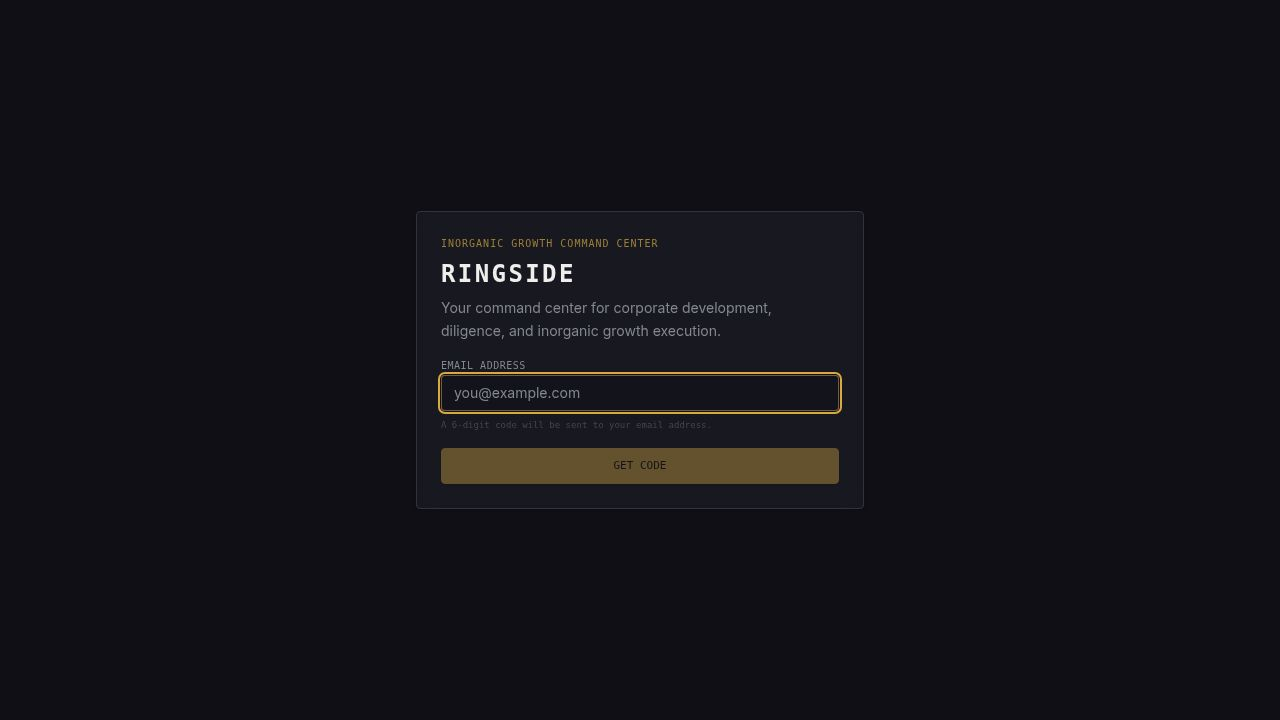
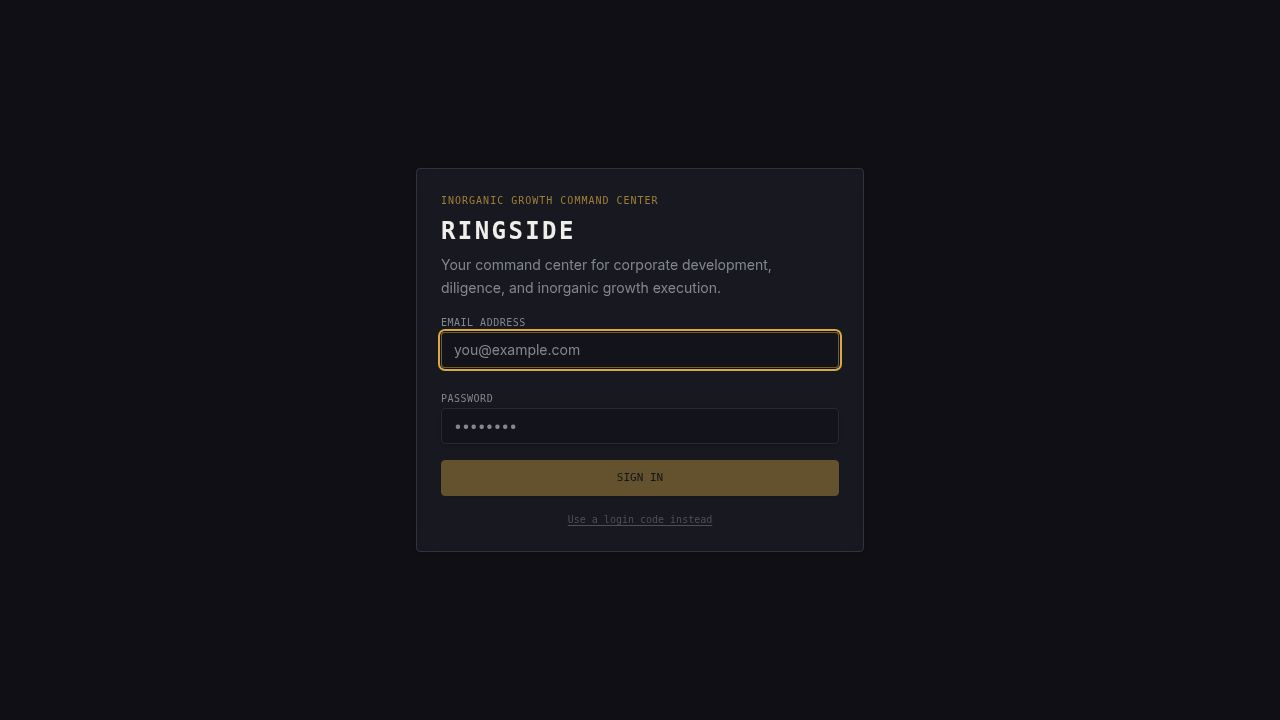
Add theme switching functionality to the application
Integrate next-themes for client-side theme management, defaulting to dark mode with a user-adjustable toggle available in the sidebar and mobile topbar. Update global CSS variables in index.css to support both light and dark themes, ensuring consistent UI appearance across the application.

Replit-Commit-Author: Agent
Replit-Commit-Session-Id: 6677bd51-f43c-4428-8bb9-deed49c7ef59
Replit-Commit-Checkpoint-Type: full_checkpoint
Replit-Commit-Event-Id: 4f2ffc80-0c1e-4011-b75c-3851e94c2411
Replit-Commit-Screenshot-Url: https://storage.googleapis.com/screenshot-production-us-central1/aacf2c8e-8c67-4b9d-930b-e67fe823cdb1/6677bd51-f43c-4428-8bb9-deed49c7ef59/vRrRfyv

Changed region(s): [[0.3438, 0.275, 0.6562, 0.7333]]

diff --git a/artifacts/growth-os/src/index.css b/artifacts/growth-os/src/index.css
@@ -67,6 +67,91 @@
 }
 
 :root {
+  --button-outline: rgba(0,0,0, .08);
+  --badge-outline: rgba(0,0,0, .06);
+  --opaque-button-border-intensity: 9;
+  --elevate-1: rgba(0,0,0, .035);
+  --elevate-2: rgba(0,0,0, .07);
+
+  /* ── Ringside light surface ramp ─────────────────────────── */
+  /* sidebar (98%) → background (99%) → card (100%) → secondary (94%) */
+
+  --background: 40 30% 98%;        /* warm ivory paper */
+  --foreground: 240 20% 12%;       /* near-black charcoal */
+  --border: 240 12% 86%;
+
+  /* Card — clean white, subtly elevated above page canvas */
+  --card: 0 0% 100%;
+  --card-foreground: 240 20% 12%;
+  --card-border: 240 12% 87%;
+
+  /* Sidebar — light ivory shell, one shade off the page canvas */
+  --sidebar: 40 24% 96%;
+  --sidebar-foreground: 240 18% 22%;
+  --sidebar-border: 240 12% 88%;
+  --sidebar-primary: 42 70% 40%;   /* deeper antique gold — legible on light */
+  --sidebar-primary-foreground: 40 30% 98%;
+  --sidebar-accent: 240 10% 91%;
+  --sidebar-accent-foreground: 240 20% 12%;
+  --sidebar-ring: 42 70% 40%;
+
+  --popover: 0 0% 100%;
+  --popover-foreground: 240 20% 12%;
+  --popover-border: 240 12% 87%;
+
+  /* ── Colour scale ────────────────────────────────────────── */
+  --primary: 42 70% 40%;           /* deeper antique gold — meets contrast on light */
+  --primary-foreground: 40 30% 98%;
+  --secondary: 240 10% 92%;
+  --secondary-foreground: 240 20% 15%;
+  --muted: 240 10% 94%;
+  --muted-foreground: 220 8% 40%;  /* muted stone / blue-gray, darker for contrast */
+  --accent: 240 10% 92%;
+  --accent-foreground: 240 20% 15%;
+
+  /* Controlled crimson — legible on light backgrounds */
+  --destructive: 0 70% 42%;
+  --destructive-foreground: 40 30% 98%;
+
+  --input: 240 12% 88%;
+  --ring: 42 70% 40%;
+
+  /* ── Charts ──────────────────────────────────────────────── */
+  --chart-1: 42 70% 40%;           /* deeper gold / primary */
+  --chart-2: 160 55% 32%;          /* emerald, darkened for light bg */
+  --chart-3: 32 85% 42%;           /* amber, darkened */
+  --chart-4: 185 60% 30%;          /* deep teal */
+  --chart-5: 0 70% 42%;            /* controlled crimson */
+
+  /* ── Typography ──────────────────────────────────────────── */
+  --app-font-sans: 'Inter', ui-sans-serif, system-ui, -apple-system, sans-serif;
+  --app-font-serif: Georgia, serif;
+  --app-font-mono: 'Space Mono', ui-monospace, SFMono-Regular, Menlo, Monaco, Consolas, "Liberation Mono", "Courier New", monospace;
+
+  /* ── Radius ───────────────────────────────────────────────── */
+  --radius: 0.5rem;
+
+  /* ── Soft shadows for light premium feel ─────────────────── */
+  --shadow-2xs: 0 1px 2px 0 rgba(16,24,40,.04);
+  --shadow-xs:  0 1px 3px 0 rgba(16,24,40,.06),  0 1px 2px -1px rgba(16,24,40,.05);
+  --shadow-sm:  0 2px 4px 0 rgba(16,24,40,.07),  0 1px 2px -1px rgba(16,24,40,.05);
+  --shadow:     0 4px 8px 0 rgba(16,24,40,.08),  0 2px 4px -1px rgba(16,24,40,.06);
+  --shadow-md:  0 6px 16px 0 rgba(16,24,40,.09), 0 3px 6px  -1px rgba(16,24,40,.06);
+  --shadow-lg:  0 12px 24px 0 rgba(16,24,40,.1), 0 6px 12px -2px rgba(16,24,40,.07);
+  --shadow-xl:  0 20px 40px 0 rgba(16,24,40,.12), 0 10px 20px -4px rgba(16,24,40,.08);
+  --shadow-2xl: 0 32px 64px 0 rgba(16,24,40,.14);
+
+  /* ── Token aliases ───────────────────────────────────────── */
+  --sidebar-primary-border: hsl(var(--sidebar-primary));
+  --sidebar-accent-border: hsl(var(--sidebar-accent));
+  --primary-border: hsl(var(--primary));
+  --secondary-border: hsl(var(--secondary));
+  --muted-border: hsl(var(--muted));
+  --accent-border: hsl(var(--accent));
+  --destructive-border: hsl(var(--destructive));
+}
+
+.dark {
   --button-outline: rgba(255,255,255, .10);
   --badge-outline: rgba(255,255,255, .08);
   --opaque-button-border-intensity: 9;
@@ -123,14 +208,6 @@
   --chart-4: 185 60% 38%;          /* deep teal */
   --chart-5: 0 68% 52%;            /* controlled crimson */
 
-  /* ── Typography ──────────────────────────────────────────── */
-  --app-font-sans: 'Inter', ui-sans-serif, system-ui, -apple-system, sans-serif;
-  --app-font-serif: Georgia, serif;
-  --app-font-mono: 'Space Mono', ui-monospace, SFMono-Regular, Menlo, Monaco, Consolas, "Liberation Mono", "Courier New", monospace;
-
-  /* ── Radius ───────────────────────────────────────────────── */
-  --radius: 0.5rem;
-
   /* ── Deeper shadows for dark premium feel ────────────────── */
   --shadow-2xs: 0 1px 2px 0 rgba(0,0,0,.45);
   --shadow-xs:  0 1px 3px 0 rgba(0,0,0,.5),  0 1px 2px -1px rgba(0,0,0,.4);
@@ -149,10 +226,6 @@
   --muted-border: hsl(var(--muted));
   --accent-border: hsl(var(--accent));
   --destructive-border: hsl(var(--destructive));
-}
-
-.dark {
-  /* Defaulting root to dark */
 }
 
 @layer base {

diff --git a/artifacts/growth-os/src/components/layout.tsx b/artifacts/growth-os/src/components/layout.tsx
@@ -1,10 +1,11 @@
-import React, { useState } from "react";
+import React, { useState, useEffect } from "react";
 import { Link, useLocation } from "wouter";
 import { useQuery } from "@tanstack/react-query";
+import { useTheme } from "next-themes";
 import {
   Target, ListTodo, Briefcase, Plus, BarChart3, Bot, CalendarCheck,
   ClipboardCheck, Upload, ChevronDown, PanelLeftClose, PanelLeftOpen, Menu,
-  FolderOpen, LineChart, ShieldCheck, Lightbulb, LogOut,
+  FolderOpen, LineChart, ShieldCheck, Lightbulb, LogOut, Sun, Moon,
 } from "lucide-react";
 import { Button } from "@/components/ui/button";
 import { Sheet, SheetContent, SheetTrigger } from "@/components/ui/sheet";
@@ -12,6 +13,67 @@ import { Tooltip, TooltipContent, TooltipTrigger } from "@/components/ui/tooltip
 import { NotificationBell } from "@/components/notification-bell";
 import { useAuth } from "@/contexts/auth-context";
 import { customFetch } from "@workspace/api-client-react";
+
+// ─── Theme toggle ────────────────────────────────────────────────────────────
+
+function ThemeToggle({ collapsed }: { collapsed: boolean }) {
+  const { theme, setTheme, resolvedTheme } = useTheme();
+  const [mounted, setMounted] = useState(false);
+  useEffect(() => setMounted(true), []);
+
+  const isDark = mounted ? (theme ?? resolvedTheme) === "dark" : true;
+  const toggle = () => setTheme(isDark ? "light" : "dark");
+
+  if (collapsed) {
+    return (
+      <Tooltip delayDuration={0}>
+        <TooltipTrigger asChild>
+          <button
+            onClick={toggle}
+            className="w-7 h-7 flex items-center justify-center rounded-md text-sidebar-foreground/40 hover:text-sidebar-foreground/80 hover:bg-white/6 transition-colors"
+            aria-label="Toggle theme"
+          >
+            {isDark ? <Moon size={12} /> : <Sun size={12} />}
+          </button>
+        </TooltipTrigger>
+        <TooltipContent side="right" sideOffset={8}>
+          <span className="font-mono text-[11px]">{isDark ? "Switch to light" : "Switch to dark"}</span>
+        </TooltipContent>
+      </Tooltip>
+    );
+  }
+
+  return (
+    <button
+      onClick={toggle}
+      className="flex items-center gap-1 text-[10px] font-mono text-sidebar-foreground/40 hover:text-sidebar-foreground/70 transition-colors rounded-sm px-1.5 py-1 hover:bg-white/5"
+      title={isDark ? "Switch to light theme" : "Switch to dark theme"}
+      aria-label="Toggle theme"
+    >
+      {isDark ? <Moon size={11} /> : <Sun size={11} />}
+      <span className="uppercase tracking-widest">{isDark ? "Dark" : "Light"}</span>
+    </button>
+  );
+}
+
+function MobileThemeToggle() {
+  const { theme, setTheme, resolvedTheme } = useTheme();
+  const [mounted, setMounted] = useState(false);
+  useEffect(() => setMounted(true), []);
+
+  const isDark = mounted ? (theme ?? resolvedTheme) === "dark" : true;
+  const toggle = () => setTheme(isDark ? "light" : "dark");
+
+  return (
+    <button
+      onClick={toggle}
+      className="w-8 h-8 flex items-center justify-center rounded-lg text-sidebar-foreground/60 hover:text-foreground hover:bg-white/8 transition-colors"
+      aria-label="Toggle theme"
+    >
+      {isDark ? <Moon size={15} /> : <Sun size={15} />}
+    </button>
+  );
+}
 
 // ─── Data ────────────────────────────────────────────────────────────────────
 
@@ -208,6 +270,7 @@ function SidebarNav({
               <span className="animate-ping absolute inline-flex h-full w-full rounded-full bg-emerald-400 opacity-50" />
               <span className="relative inline-flex rounded-full h-1.5 w-1.5 bg-emerald-500" />
             </span>
+            <ThemeToggle collapsed />
             <Tooltip delayDuration={0}>
               <TooltipTrigger asChild>
                 <button
@@ -231,14 +294,17 @@ function SidebarNav({
               </span>
               Live
             </div>
-            <button
-              onClick={handleLogout}
-              className="flex items-center gap-1 text-[10px] font-mono text-sidebar-foreground/30 hover:text-sidebar-foreground/60 transition-colors rounded-sm px-1.5 py-1 hover:bg-white/5"
-              title="Logout"
-            >
-              <LogOut size={11} />
-              <span className="uppercase tracking-widest">Logout</span>
-            </button>
+            <div className="flex items-center gap-1">
+              <ThemeToggle collapsed={false} />
+              <button
+                onClick={handleLogout}
+                className="flex items-center gap-1 text-[10px] font-mono text-sidebar-foreground/30 hover:text-sidebar-foreground/60 transition-colors rounded-sm px-1.5 py-1 hover:bg-white/5"
+                title="Logout"
+              >
+                <LogOut size={11} />
+                <span className="uppercase tracking-widest">Logout</span>
+              </button>
+            </div>
           </div>
         )}
       </div>
@@ -319,6 +385,7 @@ export function Layout({ children }: { children: React.ReactNode }) {
           <span className="font-bold text-[11px] tracking-widest uppercase text-foreground/90 font-mono">Ringside</span>
         </div>
         <div className="flex items-center gap-1.5">
+          <MobileThemeToggle />
           <NotificationBell />
           <Link href="/targets/new">
             <Button size="sm" className="h-7 px-2.5 rounded-lg font-mono text-[10px] uppercase gap-1.5 font-semibold">

diff --git a/artifacts/growth-os/src/App.tsx b/artifacts/growth-os/src/App.tsx
@@ -1,6 +1,7 @@
 import React, { useState, useEffect } from "react";
 import { Switch, Route, Router as WouterRouter } from "wouter";
 import { QueryClient, QueryClientProvider } from "@tanstack/react-query";
+import { ThemeProvider } from "next-themes";
 import { setAuthTokenGetter } from "@workspace/api-client-react";
 import { Toaster } from "@/components/ui/toaster";
 import { TooltipProvider } from "@/components/ui/tooltip";
@@ -470,22 +471,24 @@ function App() {
   const isAcceptInvite = pathWithoutBase.startsWith("/accept-invite");
 
   return (
-    <QueryClientProvider client={queryClient}>
-      <TooltipProvider>
-        {isAcceptInvite ? (
-          <AcceptInvitePage onLogin={() => setIsAuthenticated(true)} />
-        ) : isAuthenticated ? (
-          <AuthProvider>
-            <WouterRouter base={base}>
-              <Router />
-            </WouterRouter>
-          </AuthProvider>
-        ) : (
-          <LoginScreen onLogin={() => setIsAuthenticated(true)} />
-        )}
-        <Toaster />
-      </TooltipProvider>
-    </QueryClientProvider>
+    <ThemeProvider attribute="class" defaultTheme="dark" enableSystem={false} storageKey="ringside-theme">
+      <QueryClientProvider client={queryClient}>
+        <TooltipProvider>
+          {isAcceptInvite ? (
+            <AcceptInvitePage onLogin={() => setIsAuthenticated(true)} />
+          ) : isAuthenticated ? (
+            <AuthProvider>
+              <WouterRouter base={base}>
+                <Router />
+              </WouterRouter>
+            </AuthProvider>
+          ) : (
+            <LoginScreen onLogin={() => setIsAuthenticated(true)} />
+          )}
+          <Toaster />
+        </TooltipProvider>
+      </QueryClientProvider>
+    </ThemeProvider>
   );
 }
 